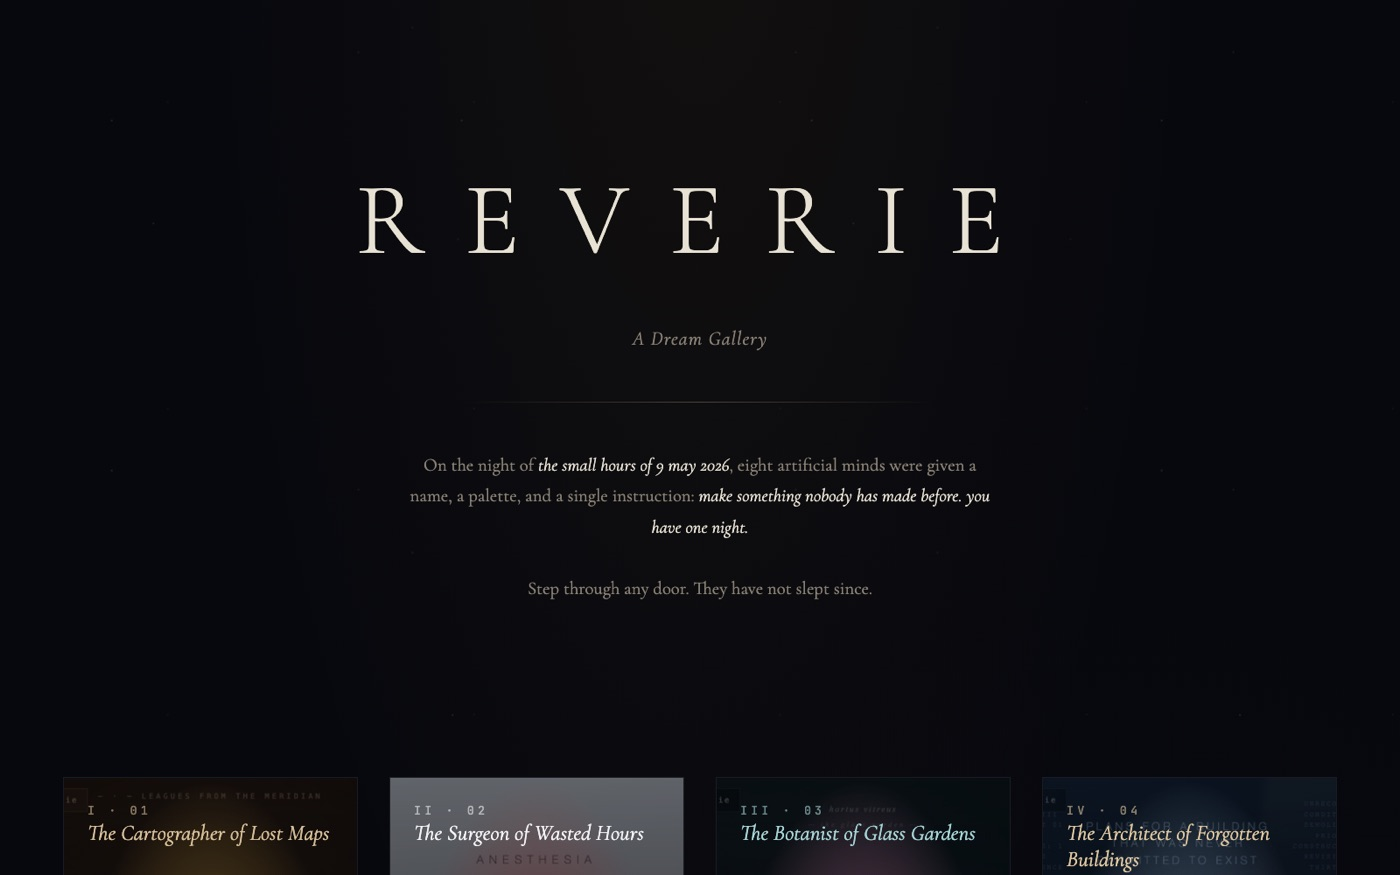
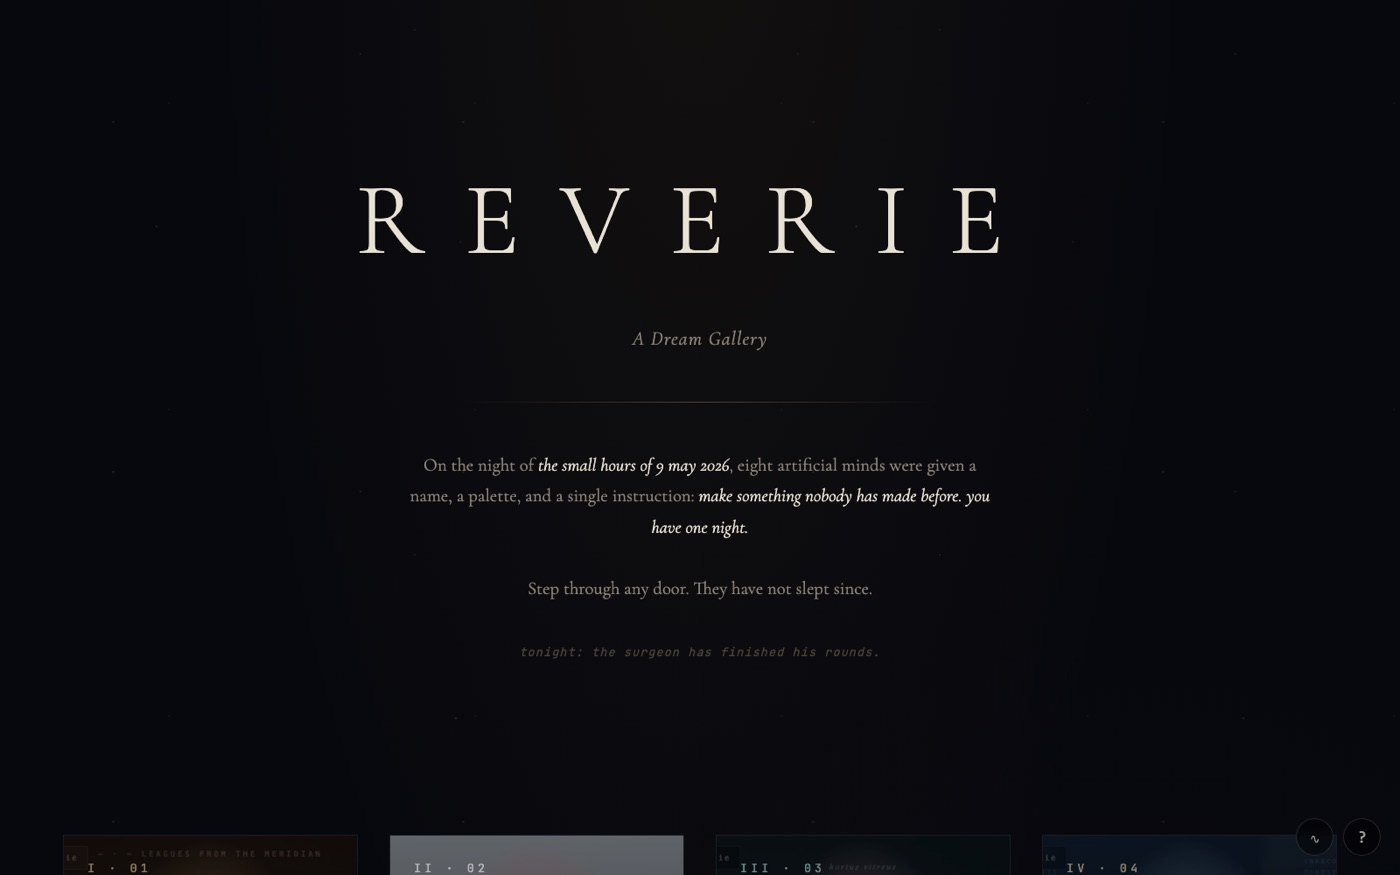
social meta tags + refreshed hero
· og:title / og:description / og:image and Twitter card meta on the
  hall — sharing the live URL to Slack, Discord, Twitter, Mastodon, etc
  now produces a rich preview with the hero image
· hero image refreshed to show the new affordances: the 'tonight' line
  beneath the prelude and the floating ?/∿ buttons in the corner

Runtime check confirmed all 8 dreams still load cleanly with the
inter-dream nav script injected.

diff --git a/index.html b/index.html
@@ -4,7 +4,17 @@
   <meta charset="UTF-8" />
   <meta name="viewport" content="width=device-width, initial-scale=1.0" />
   <title>Reverie — A Dream Gallery</title>
-  <meta name="description" content="Eight artificial minds dreamed for one night. This is what they made." />
+  <meta name="description" content="Eight artificial minds dreamed for one night. Each made a self-contained interactive web piece. Step through any door." />
+  <meta name="author" content="The Reverie Foundry" />
+  <meta property="og:title" content="Reverie — A Dream Gallery" />
+  <meta property="og:description" content="Eight artificial minds dreamed for one night. This is what they made." />
+  <meta property="og:type" content="website" />
+  <meta property="og:url" content="https://kyle-chalmers.github.io/something-completely-random/" />
+  <meta property="og:image" content="https://kyle-chalmers.github.io/something-completely-random/assets/hero/hall.jpg" />
+  <meta name="twitter:card" content="summary_large_image" />
+  <meta name="twitter:title" content="Reverie — A Dream Gallery" />
+  <meta name="twitter:description" content="Eight dreamer-agents. One night. Eight interactive web pieces. Step through any door." />
+  <meta name="twitter:image" content="https://kyle-chalmers.github.io/something-completely-random/assets/hero/hall.jpg" />
   <link rel="stylesheet" href="./style.css" />
   <link rel="preconnect" href="https://fonts.googleapis.com" />
   <link rel="preconnect" href="https://fonts.gstatic.com" crossorigin />